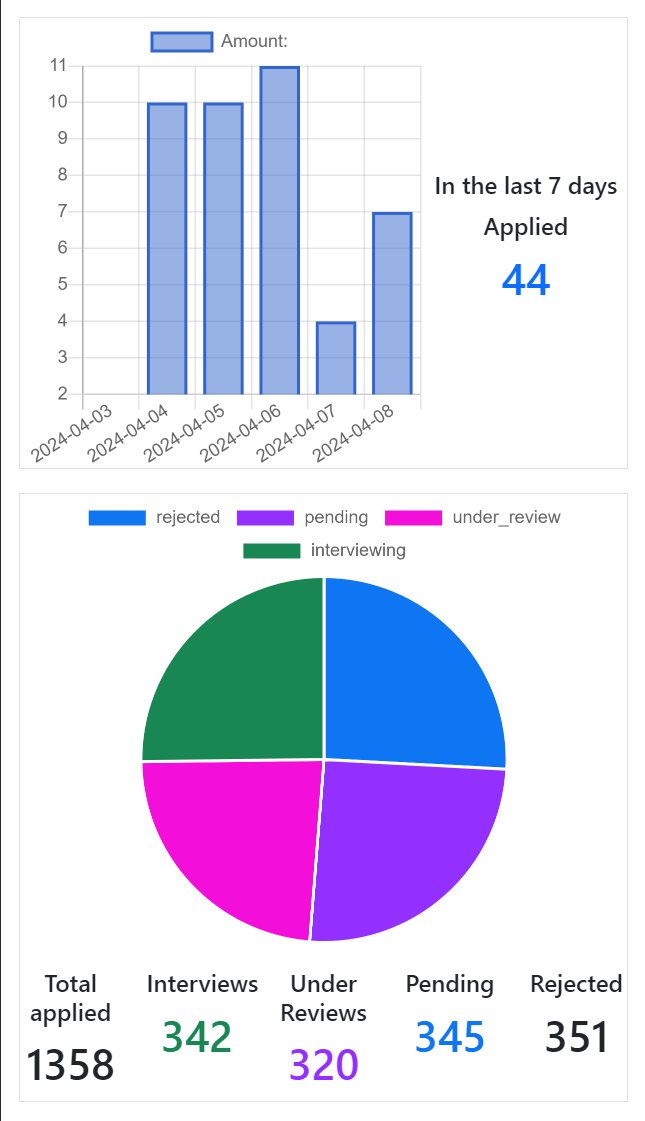
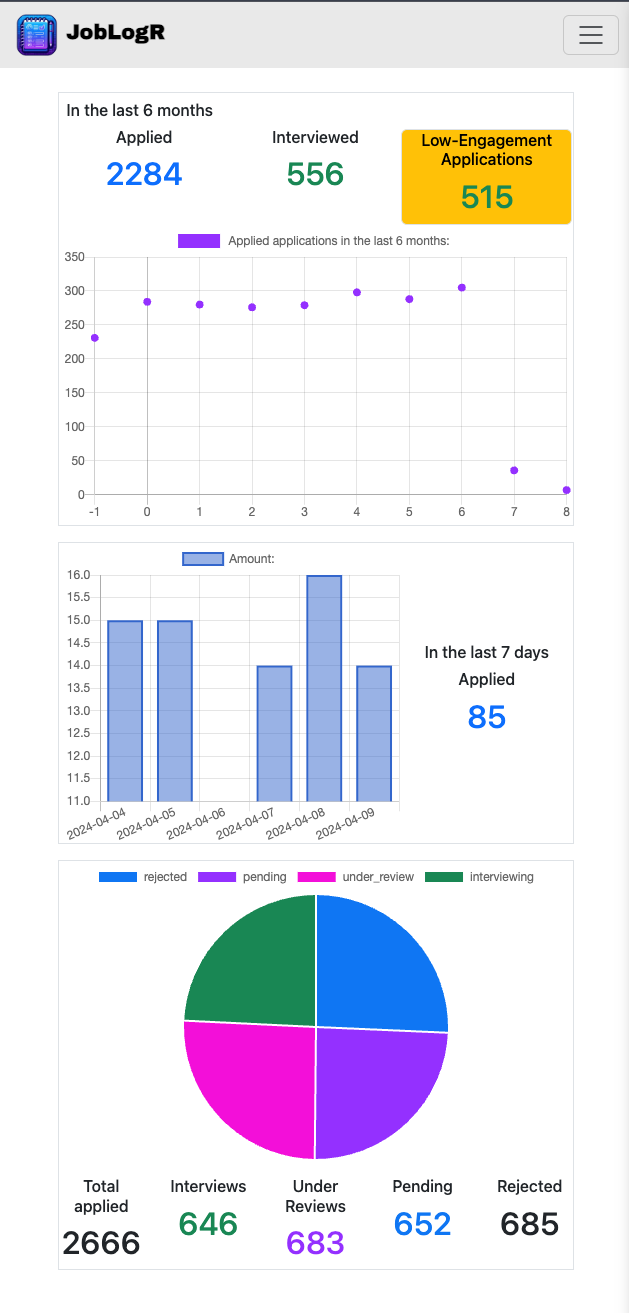
Changed btns class and label. Still not able to display ai_message in real time

diff --git a/app/assets/stylesheets/application.css b/app/assets/stylesheets/application.css
@@ -51,13 +51,9 @@ a{
 .sign_up_bg, .sign_up, .log_in, .sign_out, .create, .edit, .close{
   color: black;
   margin-bottom: 10px;
-  border: solid .5 grey;
   border-radius: 5px;
   padding: 10px;
-  background-color: var(--app-purple);
-  /* width: 100px; */
   text-align: center;
-  box-shadow: 1px 1px 20px 1px var(--app-purple);
 }
 
 .sign_up {
@@ -85,6 +81,10 @@ a{
   }
 }
 
+.sign_up_bg{
+  background-color: var(--app-purple);
+  box-shadow: 1px 1px 20px 1px var(--app-purple);
+}
 .log_in{
   background-color: var(--app-blue);
   box-shadow: 1px 1px 20px 1px var(--app-blue);

diff --git a/app/models/interview.rb b/app/models/interview.rb
@@ -33,16 +33,16 @@ class Interview < ApplicationRecord
 
   def future_date_time
     if start_date.present? && start_date < Time.current
-      errors.add(:start_date, "Start time can't be in the past")
+      errors.add(:start_date, "can't be in the past")
     end
     if end_date.present? && end_date < Time.current
-      errors.add(:end_date, "End time can't be in the past")
+      errors.add(:end_date, "can't be in the past")
     end
     if start_date.present? && end_date.present? && end_date < start_date
-      errors.add(:end_date, "End time can't be before start date")
+      errors.add(:end_date, "can't be before start date")
     end
     if start_date.present? && end_date.present? && end_date == start_date
-      errors.add(:end_date, "End time can't be the same with start date")
+      errors.add(:end_date, "can't be the same with start date")
     end
   end
 end

diff --git a/config/routes.rb b/config/routes.rb
@@ -4,7 +4,7 @@ Rails.application.routes.draw do
   resources :ai_messages
   resources :job_listings do
     patch 'update_status/:status', action: :update_status, on: :member, as: :update_status
-    get 'graph', action: :graph, on: :collection, as: :graph
+    get 'application_insights', action: :application_insights, on: :collection, as: :application_insights
   end
   resources :boards
   resources :interviews

diff --git a/app/controllers/job_listings_controller.rb b/app/controllers/job_listings_controller.rb
@@ -68,8 +68,9 @@ class JobListingsController < ApplicationController
     end
   end
 
-  def graph
+  def application_insights
     @job_listings = index
+    @follow_up_list = @job_listings.where("job_listings.total_points < 1 AND job_listings.created_at >= ?", 6.months.ago)
     respond_to do |format|
       format.html { render "line_chart" }
     end
